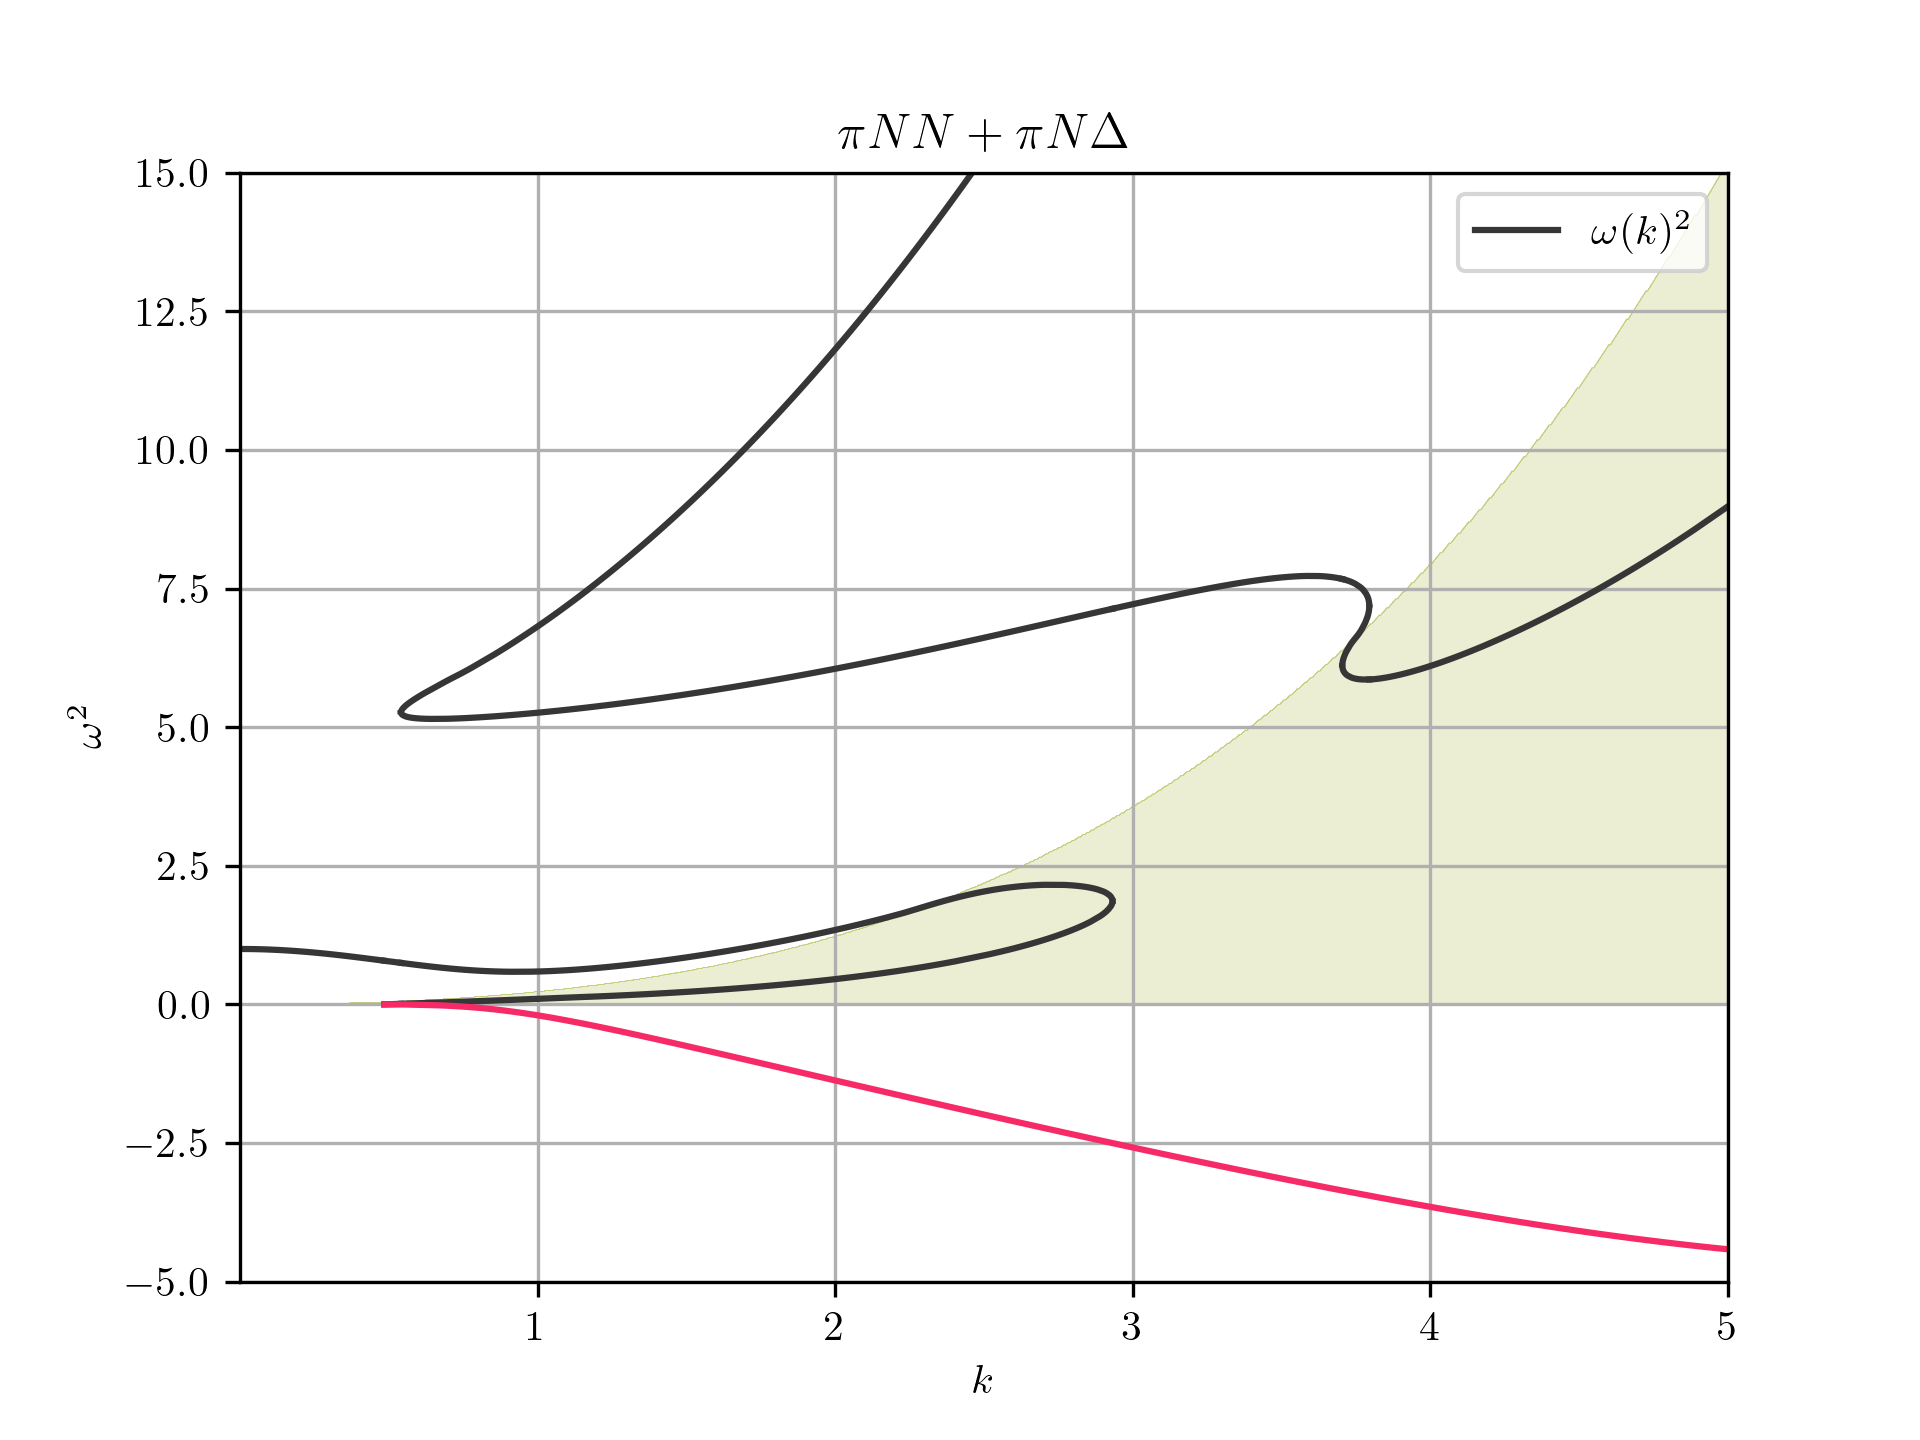
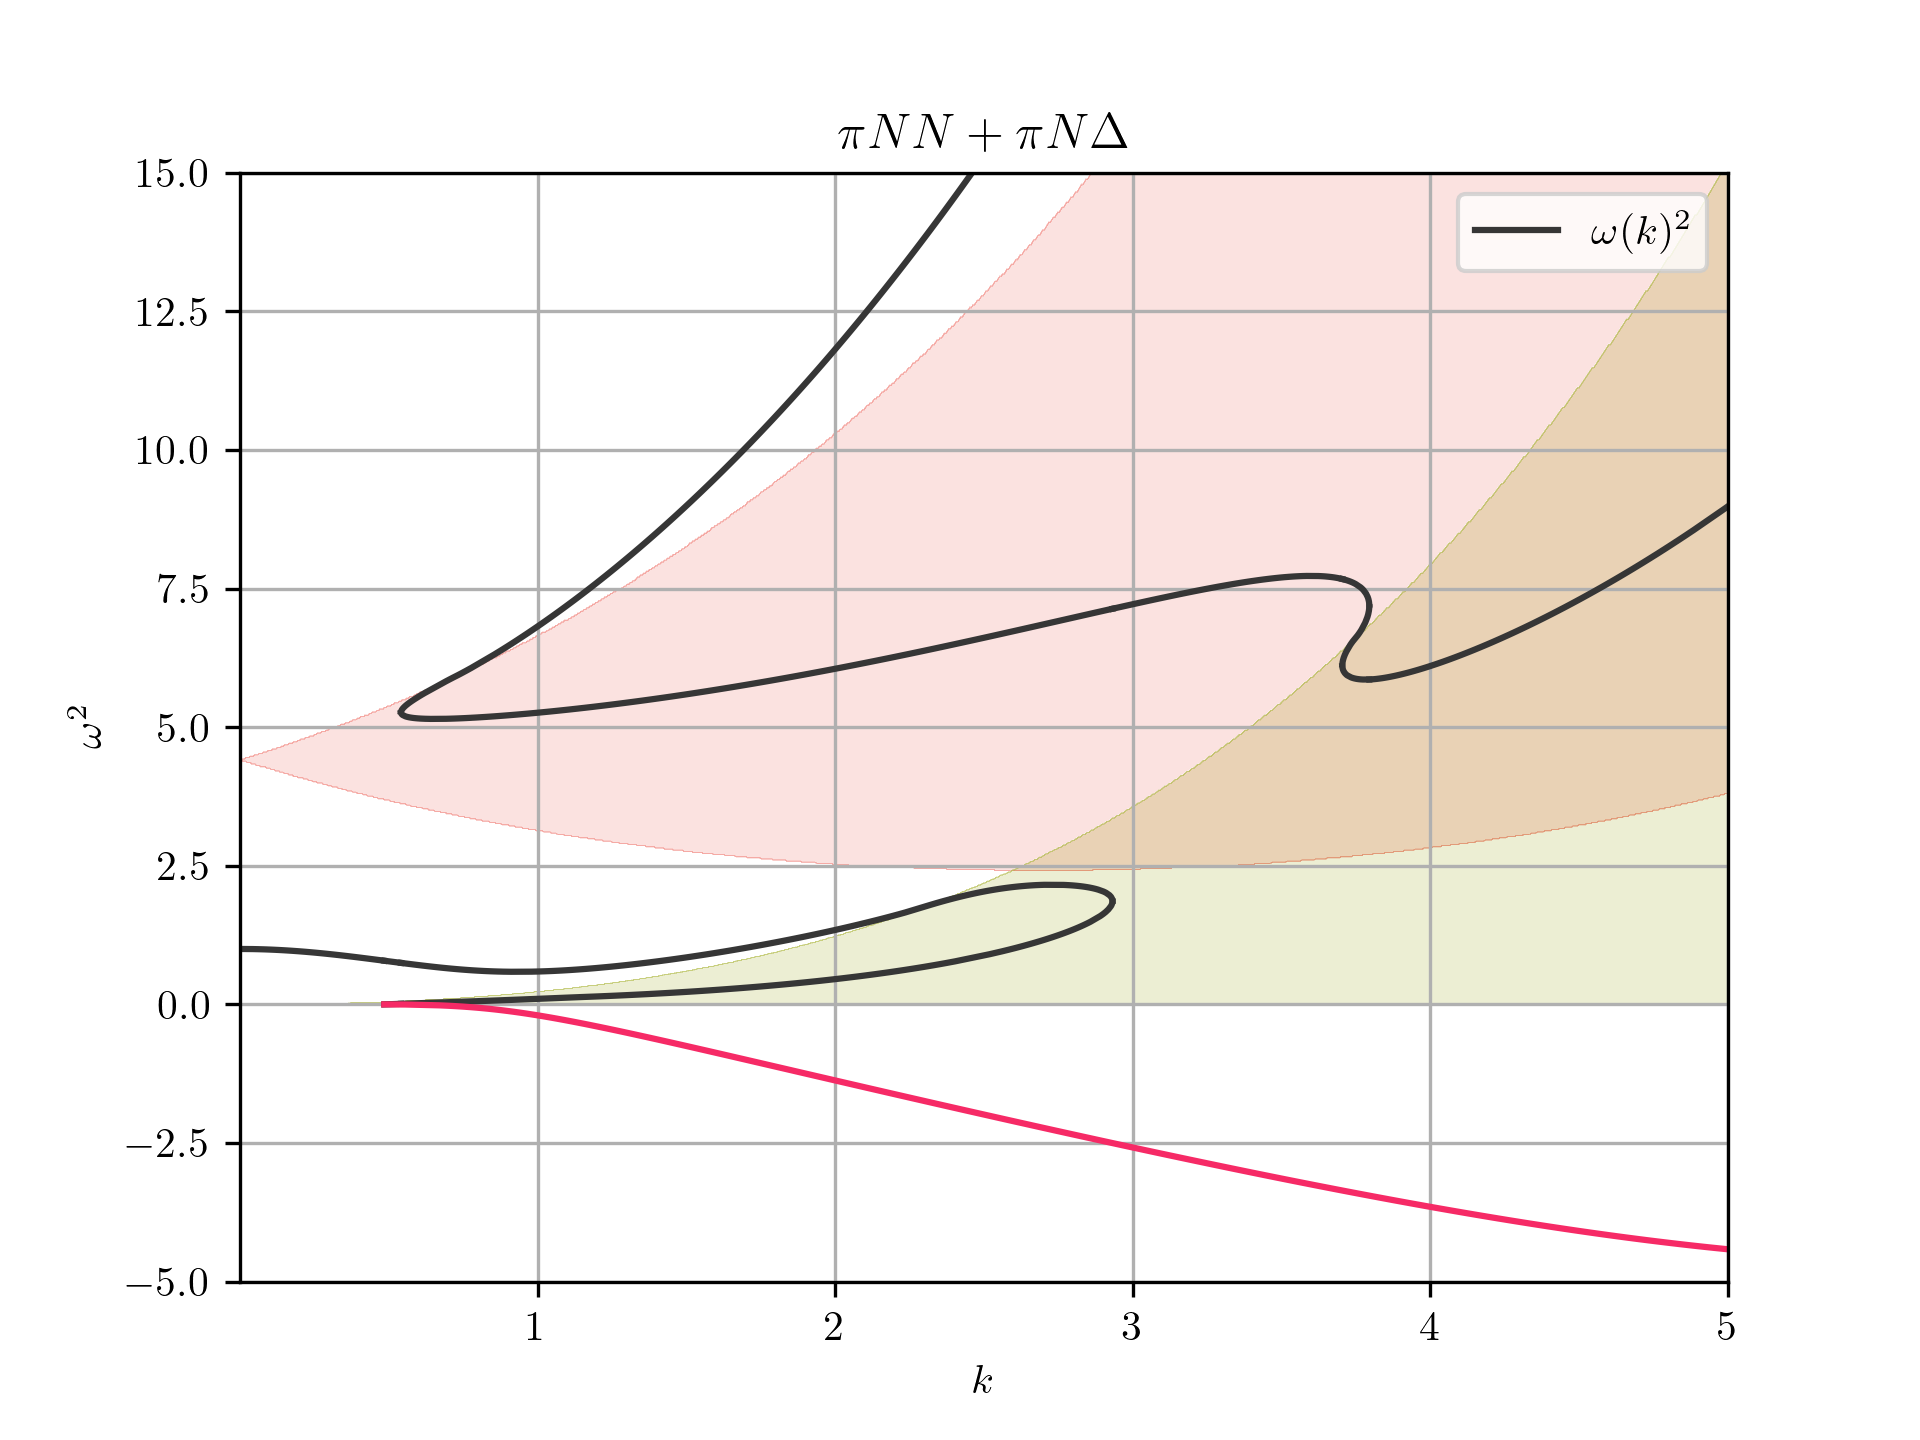
Full eq plot (small fix with pi_delta area)

Changed region(s): [[0.125, 0.125, 0.9062, 0.625]]

diff --git a/plot_spectrum_imag.py b/plot_spectrum_imag.py
@@ -54,9 +54,10 @@ for i_filename in i_filenames:
 
 
 cmap_pi = ListedColormap(['#ffffff00', '#a1ae25']) # Green
-# cmap_pi_delta = ListedColormap(['#ffffff00', '#ec4f43']) # Red
-# plt.contourf(fv.K, fv.W * fv.W, np.abs(fv.pi_delta(fv.K, fv.W, float(pf)).imag) > 1e-5,
-#     alpha=.2, cmap=cmap_pi)
+cmap_pi_delta = ListedColormap(['#ffffff00', '#ec4f43']) # Red
+plt.contourf(fv.K, fv.W * fv.W,
+    np.abs(fv.pi_delta(fv.K, fv.W, float(pf)).imag) > 1e-5,
+    alpha=.2, cmap=cmap_pi_delta)
 
 plt.contourf(fv.K, fv.W * fv.W,
     np.abs(fv.pi(fv.K, fv.W, float(pf)).imag) > 1e-5,
